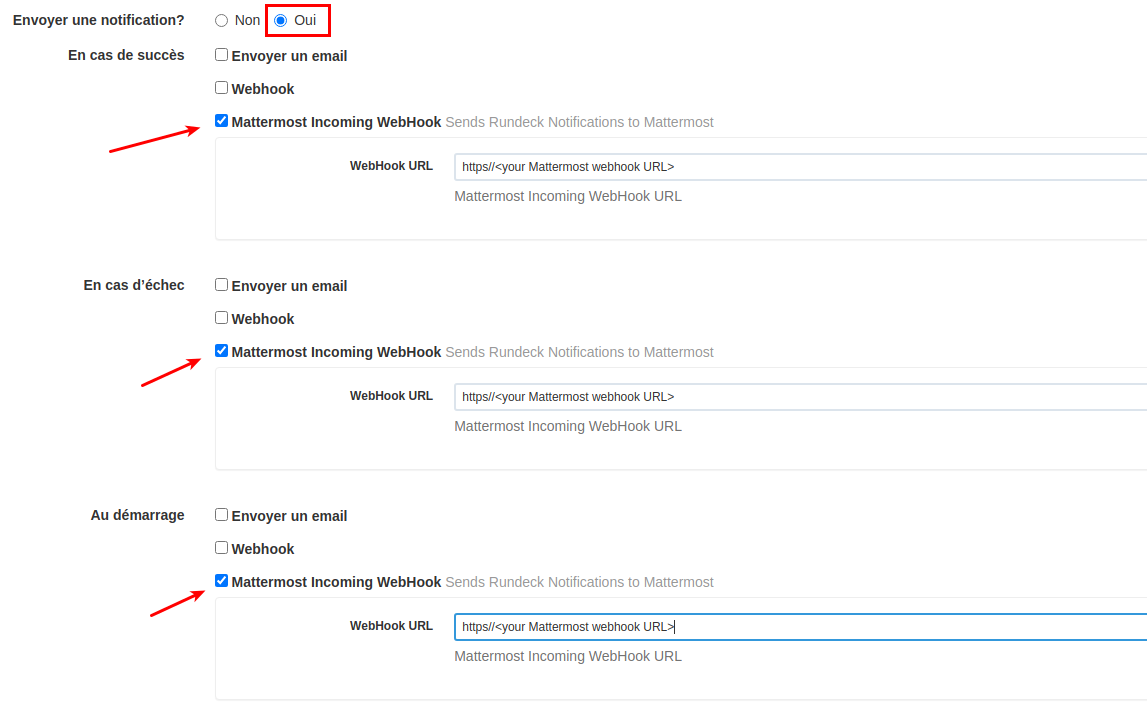
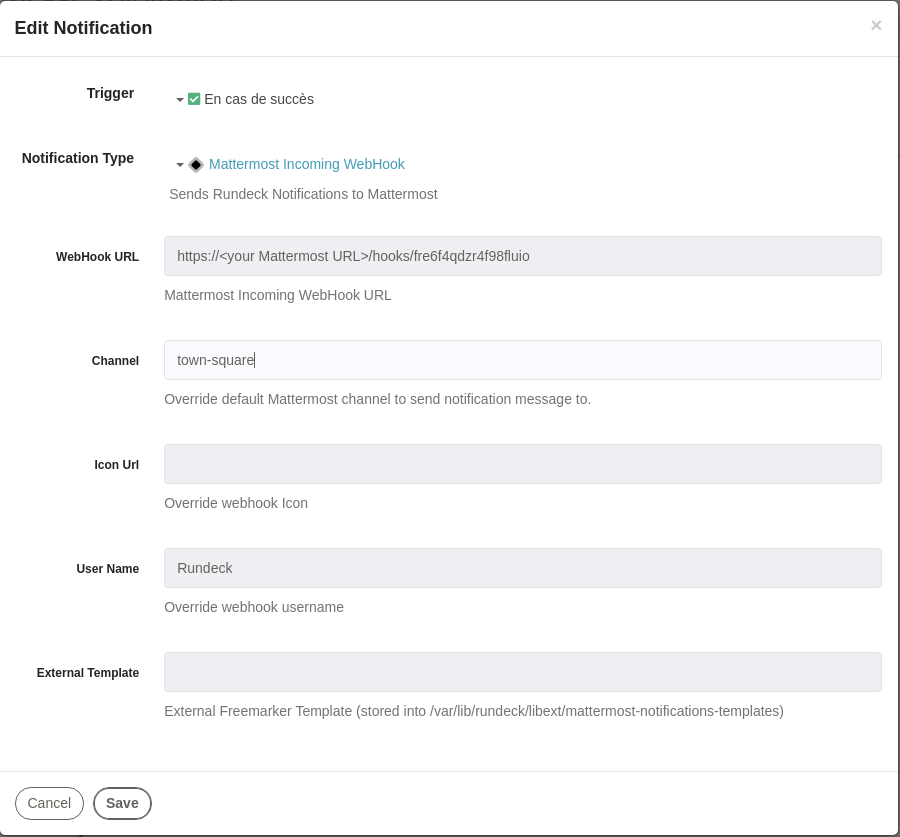
implement options
add this options:
- Channel
- Icon Url
- User name
- External Template

diff --git a/src/main/java/com/bitplaces/rundeck/plugins/mattermost/MattermostNotificationPlugin.java b/src/main/java/com/bitplaces/rundeck/plugins/mattermost/MattermostNotificationPlugin.java
@@ -54,10 +54,8 @@ public class MattermostNotificationPlugin implements NotificationPlugin {
     private static final String MATTERMOST_MESSAGE_COLOR_RED = "danger";
 
     private static final String MATTERMOST_MESSAGE_FROM_NAME = "Rundeck";
-//    private static final String SLACK_EXT_MESSAGE_TEMPLATE_PATH = "/var/lib/rundeck/libext/templates";
-
+    private static final String SLACK_EXT_MESSAGE_TEMPLATE_PATH = "/var/lib/rundeck/libext/mattermost-notifications-templates";
     private static final String MATTERMOST_MESSAGE_TEMPLATE = "mattermost-incoming-message.ftl";
-    // private static final String MATTERMOST_MESSAGE_TEMPLATE = "mattermost-message.ftl";
 
 
     private static final String TRIGGER_START = "start";
@@ -68,11 +66,41 @@ public class MattermostNotificationPlugin implements NotificationPlugin {
 
     private static final Configuration FREEMARKER_CFG = new Configuration();
 
-    @PluginProperty(title = "WebHook URL", description = "Mattermost Incoming WebHook URL", required = true)
+    @PluginProperty(title = "WebHook URL",
+                    description = "Mattermost Incoming WebHook URL",
+                    required = true)
     private String webhook_url;
 
+    @PluginProperty(
+            title = "Channel",
+            description = "Override default Mattermost channel to send notification message to.",
+            required = false,
+            defaultValue = "town-square")
+    private String channel;
+
+
+    @PluginProperty(
+            title = "Icon Url",
+            description = "Override webhook Icon",
+            required = false
+    )
+    private String icon_url;
+
+    @PluginProperty(
+            title = "User Name",
+            description = "Override webhook username",
+            required = false
+    )
+    private String username;
+    @PluginProperty(
+            title = "External Template",
+            description = "External Freemarker Template (stored into /var/lib/rundeck/libext/mattermost-notifications-templates)",
+            required = false
+    )
+    private String external_template;
+
     /**
-     * Sends a message to a Mattermost room when a job notification event is raised by Rundeck.
+     * Sends a message to a Mattermost channel when a job notification event is raised by Rundeck.
      *
      * @param trigger name of job notification event causing notification
      * @param executionData job execution data
@@ -84,25 +112,25 @@ public class MattermostNotificationPlugin implements NotificationPlugin {
 
         String ACTUAL_MATTERMOST_TEMPLATE;
 
-//        if(null != external_template && !external_template.isEmpty()) {
-//            try {
-//                FileTemplateLoader externalTemplate = new FileTemplateLoader(new File(SLACK_EXT_MESSAGE_TEMPLATE_PATH));
-//                System.err.printf("Found external template directory. Using it.\n");
-//                TemplateLoader[] loaders = new TemplateLoader[]{externalTemplate};
-//                MultiTemplateLoader mtl = new MultiTemplateLoader(loaders);
-//                FREEMARKER_CFG.setTemplateLoader(mtl);
-//                ACTUAL_MATTERMOST_TEMPLATE = external_template;
-//            } catch (Exception e) {
-//                System.err.printf("No such directory: %s\n", SLACK_EXT_MESSAGE_TEMPLATE_PATH);
-//                return false;
-//            }
-//        }else{
-            ClassTemplateLoader builtInTemplate = new ClassTemplateLoader(MattermostNotificationPlugin.class, "/templates");
-            TemplateLoader[] loaders = new TemplateLoader[]{builtInTemplate};
-            MultiTemplateLoader mtl = new MultiTemplateLoader(loaders);
-            FREEMARKER_CFG.setTemplateLoader(mtl);
-            ACTUAL_MATTERMOST_TEMPLATE = MATTERMOST_MESSAGE_TEMPLATE;
-//        }
+        if(null != external_template && !external_template.isEmpty()) {
+            try {
+                FileTemplateLoader externalTemplate = new FileTemplateLoader(new File(SLACK_EXT_MESSAGE_TEMPLATE_PATH));
+                System.err.printf("Found external template directory. Using it.\n");
+                TemplateLoader[] loaders = new TemplateLoader[]{externalTemplate};
+                MultiTemplateLoader mtl = new MultiTemplateLoader(loaders);
+                FREEMARKER_CFG.setTemplateLoader(mtl);
+                ACTUAL_MATTERMOST_TEMPLATE = external_template;
+            } catch (Exception e) {
+                System.err.printf("No such directory: %s\n", SLACK_EXT_MESSAGE_TEMPLATE_PATH);
+                return false;
+            }
+        }else{
+                ClassTemplateLoader builtInTemplate = new ClassTemplateLoader(MattermostNotificationPlugin.class, "/templates");
+                TemplateLoader[] loaders = new TemplateLoader[]{builtInTemplate};
+                MultiTemplateLoader mtl = new MultiTemplateLoader(loaders);
+                FREEMARKER_CFG.setTemplateLoader(mtl);
+                ACTUAL_MATTERMOST_TEMPLATE = MATTERMOST_MESSAGE_TEMPLATE;
+        }
 
         TRIGGER_NOTIFICATION_DATA.put(TRIGGER_START,   new MattermostNotificationData(ACTUAL_MATTERMOST_TEMPLATE, MATTERMOST_MESSAGE_COLOR_YELLOW));
         TRIGGER_NOTIFICATION_DATA.put(TRIGGER_SUCCESS, new MattermostNotificationData(ACTUAL_MATTERMOST_TEMPLATE, MATTERMOST_MESSAGE_COLOR_GREEN));
@@ -118,7 +146,7 @@ public class MattermostNotificationPlugin implements NotificationPlugin {
             throw new IllegalArgumentException("Unknown trigger type: [" + trigger + "].");
         }
 
-        String message = generateMessage(trigger, executionData, config);
+        String message = generateMessage(trigger, executionData, config, channel);
         String mattermostResponse = invokeMattermostAPIMethod(webhook_url, message);
         String ms = "payload=" + URLEncoder.encode(message);
 
@@ -132,7 +160,7 @@ public class MattermostNotificationPlugin implements NotificationPlugin {
     }
 
     // private String generateMessage(String trigger, Map executionData, Map config, String channel) {
-    private String generateMessage(String trigger, Map executionData, Map config) {
+    private String generateMessage(String trigger, Map executionData, Map config, String channel) {
         String templateName = TRIGGER_NOTIFICATION_DATA.get(trigger).template;
         String color = TRIGGER_NOTIFICATION_DATA.get(trigger).color;
 
@@ -141,13 +169,13 @@ public class MattermostNotificationPlugin implements NotificationPlugin {
         model.put("color", color);
         model.put("executionData", executionData);
         model.put("config", config);
-//         model.put("channel", channel);
-//        if(username != null && !username.isEmpty()) {
-//            model.put("username", username);
-//        }
-//        if(icon_url != null && !icon_url.isEmpty()) {
-//            model.put("icon_url", icon_url);
-//        }
+        model.put("channel", channel);
+       if(username != null && !username.isEmpty()) {
+           model.put("username", username);
+       }
+       if(icon_url != null && !icon_url.isEmpty()) {
+           model.put("icon_url", icon_url);
+       }
         StringWriter sw = new StringWriter();
         try {
             Template template = FREEMARKER_CFG.getTemplate(templateName);

diff --git a/README.md b/README.md
@@ -20,7 +20,7 @@ $ docker run --rm -v `pwd`:/home/rundeck-mattermost-incoming-webhook-plugin rund
 
 ```
 
-It creates ``build/libs/rundeck-mattermost-0.6.jar``
+It creates ``build/libs/rundeck-mattermost-0.7.jar``
 ## Configuration
 This plugin uses Mattermost incoming-webhooks. Create a new webhook and copy the provided url.
 
@@ -29,6 +29,14 @@ This plugin uses Mattermost incoming-webhooks. Create a new webhook and copy the
 The only required configuration settings are:
 
 - `WebHook URL`: Mattermost incoming-webhook URL.
+- `Channel`: Mattermost channel *(default = town-square)*
+- `Icon URL`: URL of a custom icon
+- `User Name`: Notify sender identity *(default = Rundeck )*
+- `External Template`: file name of a Freemarker custom template
+
+### Custom template
+- Create folder ``/var/lib/rundeck/libext/mattermost-notifications-templates``
+- Put your custom ``ftl`` file template into this folder *(ex into mattermost-notifications-templates folder)*
 
 ## Mattermost  message example.
 
